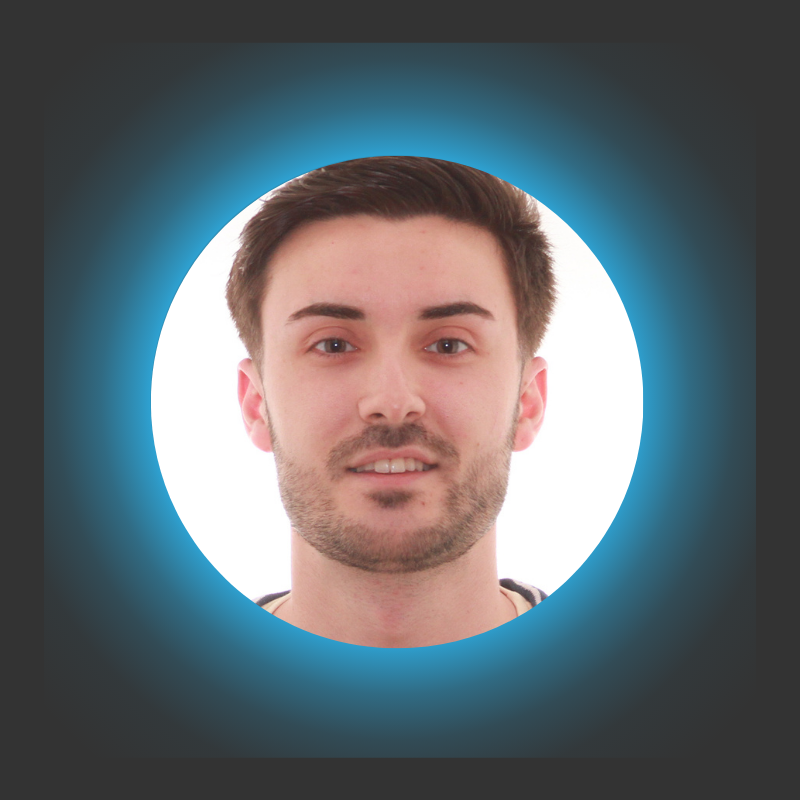
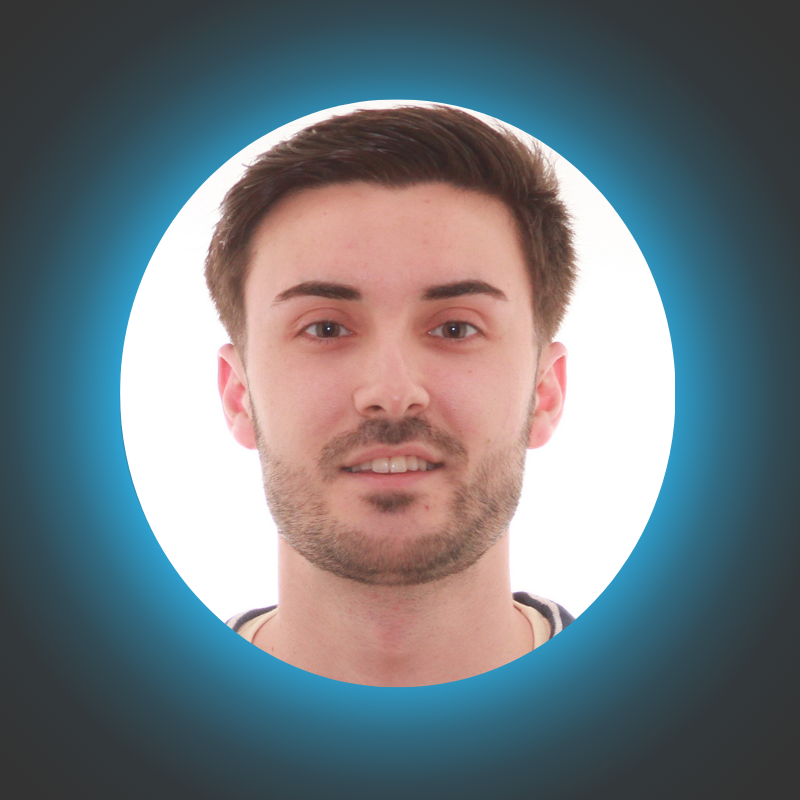
Arreglar imagen

diff --git a/src/components/Home/IntroSection.js b/src/components/Home/IntroSection.js
@@ -2,11 +2,12 @@ import React from "react";
 import Swal from "sweetalert2";
 import ImagenRoberto from "../../img/Rober.PNG";
 import AnimatedText from "../AnimatedText/AnimatedText";
-import ScrollDownGif from "../../img/ScrollDown.gif";
 import CV_Roberto_Lopez from "../../img/CV_Roberto_Lopez.pdf";
 import "./IntroSection.css";
 import { FontAwesomeIcon } from "@fortawesome/react-fontawesome";
 import { faCloudArrowDown } from "@fortawesome/free-solid-svg-icons";
+
+import "@fortawesome/fontawesome-free/css/all.min.css";
 
 const IntroSection = () => {
   const phoneNumber = "634410783";
@@ -55,15 +56,12 @@ const IntroSection = () => {
           <AnimatedText />
         </h2>{" "}
         <p>
-          ¡Hola y bienvenidos a mi portafolio! Soy <b>Roberto López</b>, un
-          apasionado <b>Desarrollador Full Stack y Diseñador UX/UI</b> dedicado
-          a crear <b>experiencias web visualmente cautivadoras</b> y{" "}
-          <b>fáciles de usar</b>. Con una <b>mezcla distintiva</b> de
-          habilidades técnicas y creatividad, tengo plena <b>confianza</b> en mi
-          capacidad para proporcionar <b>soluciones personalizadas</b> que
-          satisfacen diversos requerimientos de proyectos. Mi objetivo es
-          siempre <b>elevar</b> cada proyecto a su máximo potencial, asegurando
-          una <b>calidad excepcional</b> y una{" "}
+          ¡Hola! Soy <b>Roberto López</b>, un{" "}
+          <b>Desarrollador Full Stack y Diseñador UX/UI</b> dedicado a crear{" "}
+          <b>experiencias web cautivadoras y fáciles de usar</b>. Con una{" "}
+          combinación única de habilidades técnicas y creatividad, ofrezco{" "}
+          <b>soluciones personalizadas</b> que elevan cada proyecto a su máximo
+          potencial, asegurando <b>calidad excepcional</b> y una{" "}
           <b>experiencia de usuario inigualable</b>.
         </p>
         <div className="buttons-container">
@@ -97,20 +95,10 @@ const IntroSection = () => {
       <div className="profile-pic">
         <img src={ImagenRoberto} alt="Roberto López" />
       </div>
-      <div className="scroll-down">
-        <img
-          src={ScrollDownGif}
-          alt="Scroll Down"
-          className="scroll-icon left"
-        />
-        <p href="#skills" onClick={scrollToSection} className="scroll-link">
-          Scroll Abajo
-        </p>
-        <img
-          src={ScrollDownGif}
-          alt="Scroll Down"
-          className="scroll-icon right"
-        />
+      <div class="scroll-down">
+        <div class="scroll-icon">
+          <i class="fa fa-chevron-down"></i>
+        </div>
       </div>
     </div>
   );

diff --git a/src/components/Home/IntroSection.css b/src/components/Home/IntroSection.css
@@ -40,6 +40,17 @@ html {
   font-size: 1.2em;
   margin-top: 20px;
   color: #595959;
+  line-height: 1.5;
+}
+
+.intro p b {
+  color: #595959;
+  transition: color 0.3s;
+}
+
+.intro p b:hover {
+  color: #2ea1d1;
+  transition: color 0.3s;
 }
 
 .buttons-container {
@@ -106,7 +117,7 @@ html {
   align-items: center;
   justify-content: center;
   position: absolute;
-  bottom: 55px;
+  bottom: 80px;
   left: 50%;
   transform: translateX(-50%);
   flex-direction: row;
@@ -125,9 +136,9 @@ html {
 }
 
 .scroll-icon {
-  width: 50px;
-  height: auto;
+  font-size: 50px;
   animation: rebounce 3s infinite;
+  color: white;
 }
 
 .scroll-icon.left {
@@ -139,17 +150,36 @@ html {
 }
 
 .profile-pic {
-  flex-shrink: 0;
+  position: relative;
   margin-left: 50px;
   max-width: 400px;
   height: auto;
-  border-radius: 50%;
   text-align: center;
 }
 
 .profile-pic img {
   max-width: 100%;
   border-radius: 50%;
+  position: relative;
+  z-index: 1;
+}
+
+.profile-pic::before {
+  content: "";
+  position: absolute;
+  top: 50%;
+  left: 50%;
+  width: 120%;
+  height: 120%;
+  border-radius: 50%;
+  transform: translate(-50%, -50%);
+  z-index: 0;
+  background: radial-gradient(
+    circle,
+    rgba(46, 161, 209, 0.6) 10%,
+    transparent 80%
+  );
+  filter: blur(20px);
 }
 
 @keyframes rebounce {
@@ -217,7 +247,7 @@ html {
   }
 
   .scroll-icon {
-    width: 30px;
+    font-size: 30px;
   }
 }
 
@@ -276,7 +306,7 @@ html {
   }
 
   .scroll-icon {
-    width: 40px;
+    font-size: 40px;
   }
 }
 
@@ -343,7 +373,7 @@ html {
   }
 
   .scroll-icon {
-    width: 50px;
+    font-size: 50px;
   }
 }
 
